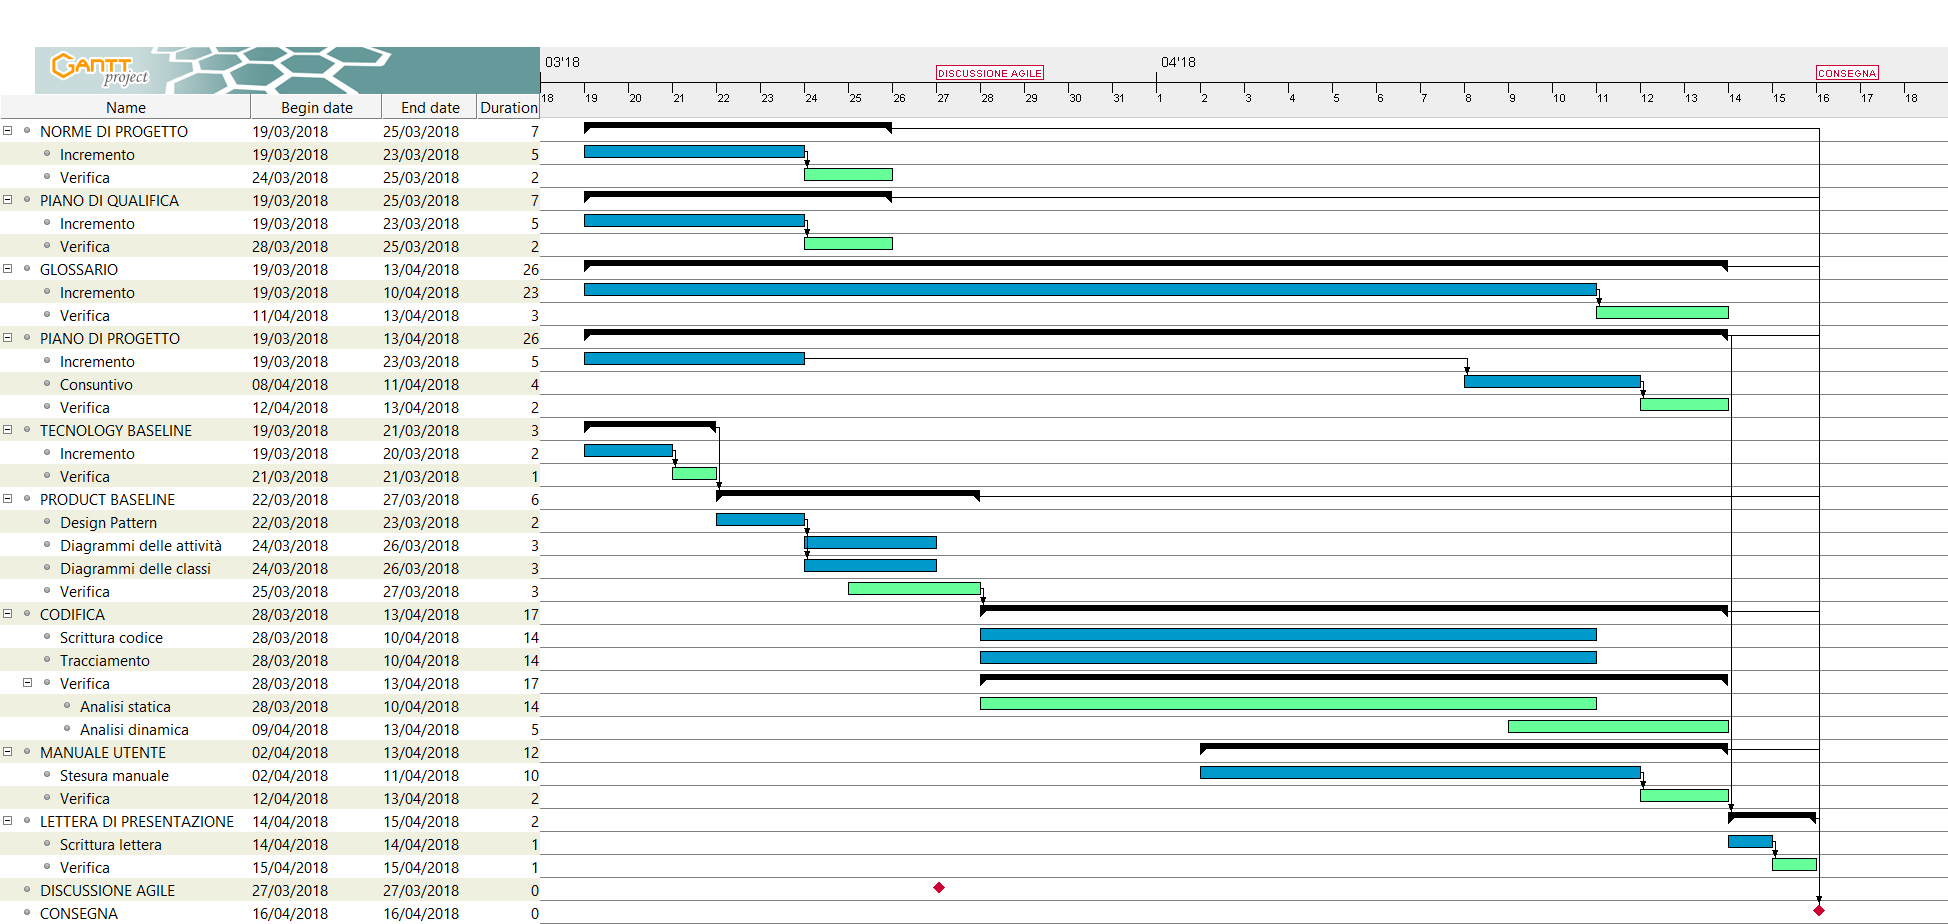
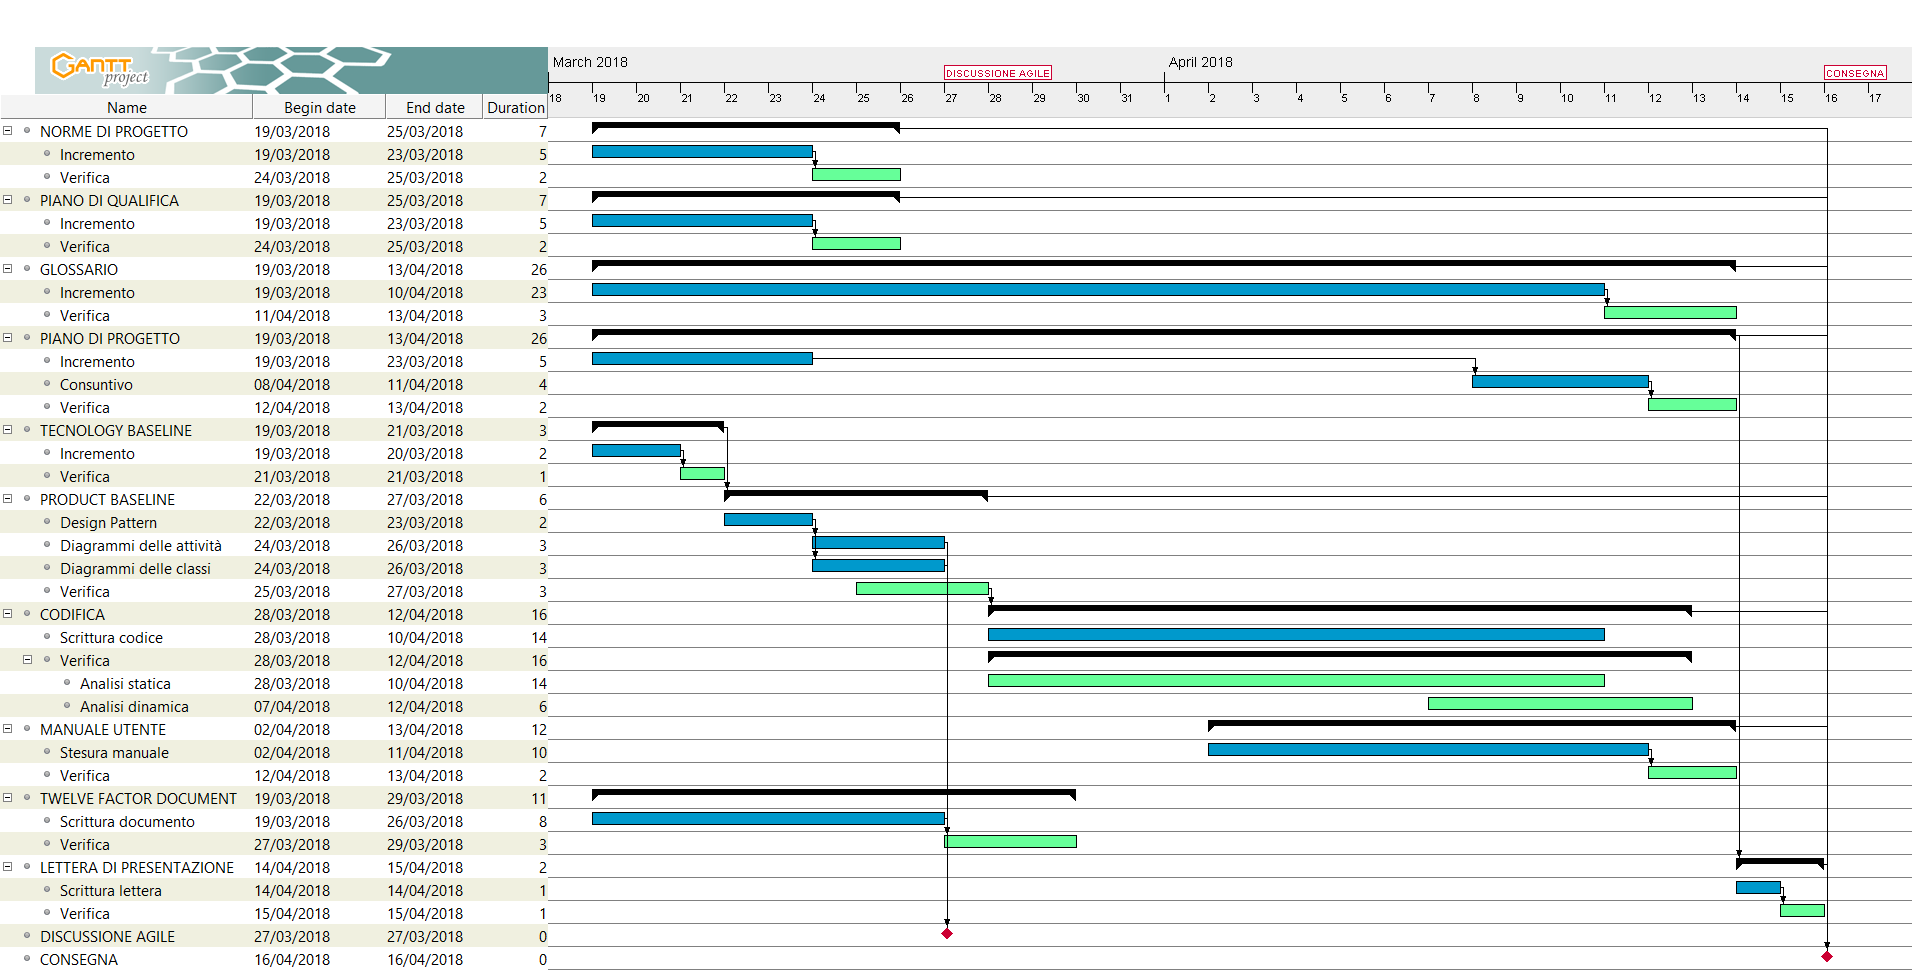
Aggiornato diagramma gantt piano di progetto ed altre piccole cose.

diff --git a/Esterni - ENG/PianoDiProgetto/AnalisiDeiRischi.tex b/Esterni - ENG/PianoDiProgetto/AnalisiDeiRischi.tex
@@ -4,7 +4,7 @@
 
 \chapter{Analisi dei rischi}
 Nella seguente tabella è stata effettuata un’analisi approfondita dei rischi atta ad ottimizzare l’avanzamento del progetto. Per migliorare la lettura della tabella, l'attualizzazione al periodo corrente viene riportata solo per i rischi che si sono veramente verificati.
-%TODO aggiungere attualizzazione per il periodo di analisi
+%TODO aggiungere attualizzazione per il periodo di analisi. 
 
 % per tabelle, alterna i colori delle righe		
 \taburowcolors[2] 2{tableLineOne .. tableLineTwo}
@@ -34,16 +34,17 @@ Nella seguente tabella è stata effettuata un’analisi approfondita dei rischi 
 
 
 	%Codice per Attualizzazione 
-	\multicolumn{4}{c}{ \cellcolor{tableLineOne} \textbf{Attualizzazione}} \\*
-	\rowcolor{tableLineTwo} \textbf{Periodo} 
-	&
-	 \multicolumn{3}{c}{\textbf{Mitigazione}} \\*
-	\rowcolor{tableLineOne} Prova prova
-	&
-	 \multicolumn{3}{m{0.8075\linewidth}}{Prova prova prova prova prova prova prova prova prova prova prova prova prova.} \\ %TODO rimuovo provaaaaa
-	\hhline{====}
-	%Fine codice per Attualizzazione	
+	%\multicolumn{4}{c}{ \cellcolor{tableLineOne} \textbf{Attualizzazione}} \\*
+	%\rowcolor{tableLineTwo} \textbf{Periodo} 
+	%&
+	% \multicolumn{3}{c}{\textbf{Mitigazione}} \\*
+	%\rowcolor{tableLineOne} Prova prova
 	
+	%&
+	%  \multicolumn{3}{m{0.8075\linewidth}}{Prova prova prova prova prova prova prova prova prova prova prova prova prova.} 
+
+	%Fine codice per Attualizzazione	
+		\hhline{====}
 	%Secondo rischio
 	\rowcolor{tableLineOne} \textbf{Contrasti nel gruppo} 
 	&

diff --git a/Esterni - ENG/PianoDiProgetto/Pianificazione.tex b/Esterni - ENG/PianoDiProgetto/Pianificazione.tex
@@ -73,8 +73,7 @@ Il periodo di Progettazione di dettaglio e codifica inizia il 19-03-2018 e termi
 	\item \textbf{Twelve Factor Document}: questa attività prevede uno sviluppo iniziale del documento \tfd\ che riguarda l'utilizzo dei 12 fattori\footnote{\nURI{https://12factor.net/}} all'interno dell'applicativo da sviluppare, come richiesto dalla Proponente.
 \end{itemize}
 \begin{landscape}
-	%TODO aggiornare diagramma Gantt on 12 factor document
-	\subsection{Progettazione di dettaglio e codifica - Diagramma di Gantt}
+		\subsection{Progettazione di dettaglio e codifica - Diagramma di Gantt}
 	\nImg{images/gantt/qualifica.png}{Diagramma di Gantt del periodo Progettazione di dettaglio e codifica}{20.5}	
 \end{landscape}
 
